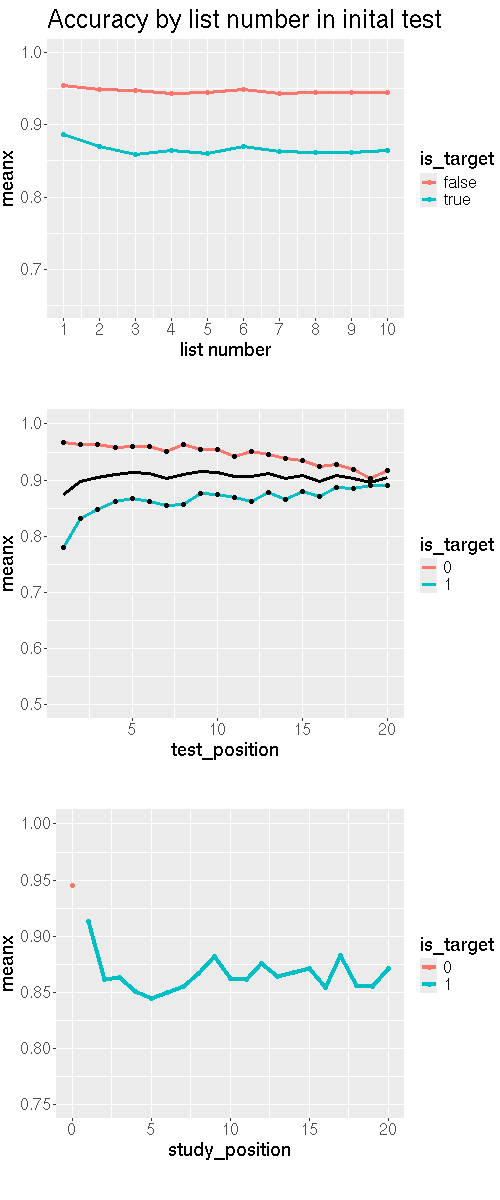
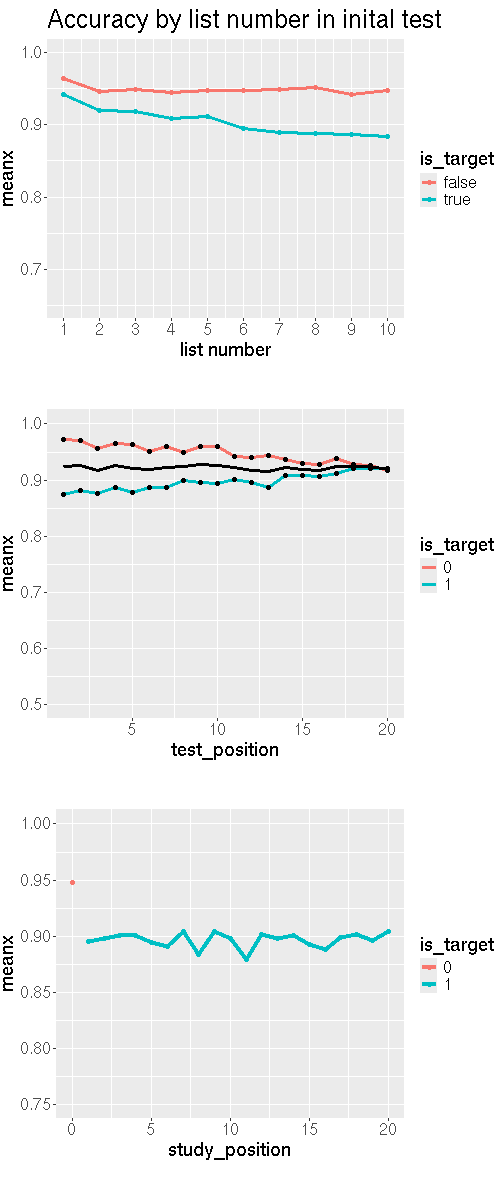
fix(model): nC_f and its Related Calculation.
- BIG BUG: ratio calculation mistaken
- & now, a mulit-param fine-tune in asking the Q of explaning decreasing T performance

Refs #8, #6

diff --git a/Docs/explore_log_crisis_issue_root7.md b/Docs/explore_log_crisis_issue_root7.md
@@ -1,0 +1,21 @@
+
+1. E3
+   1. ratio_unchanging_to_itself_init = LinRange(0.0, 0.2, n_lists) # if use no unchanging;
+   2. ratio_changing_to_itself_init = LinRange(0.5,1, n_lists) 
+   3. context_tau = LinRange(100, 10000, n_lists) 
+   4. 
+![alt text](imgMD/explore_log_crisis_issue_root7/image.png)
+
+1. E1
+
+![alt text](imgMD/explore_log_crisis_issue_root7/image-2.png)
+![alt text](imgMD/explore_log_crisis_issue_root7/image-1.png)
+
+-- previously , I had this:
+![alt text](imgMD/explore_log_crisis_issue_root7/image-3.png)
+
+-- !! Okok, I wasn't wrong in likelihood fucntion in adding the chunking image_context...
+i don't know what im doing today; stumpling around these issues... Feeling like that I am not focused enough today.... My mind might not be working well today.
+![alt text](imgMD/explore_log_crisis_issue_root7/image-4.png) 
+
+uh.. whats the current mechianism for list 1 drop to list 2now?? if i don't have the special save..??
